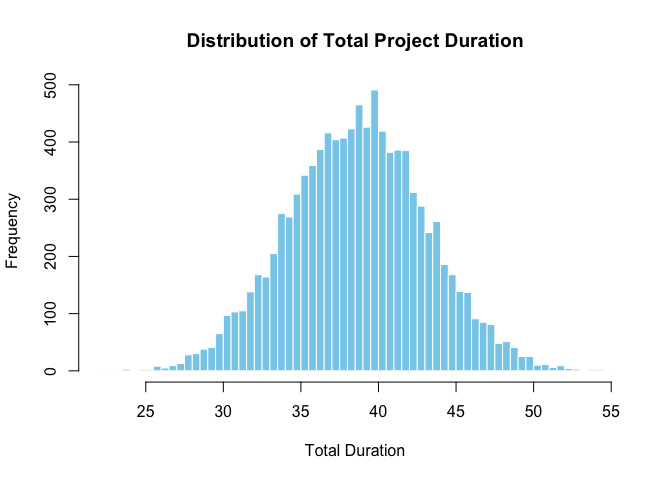
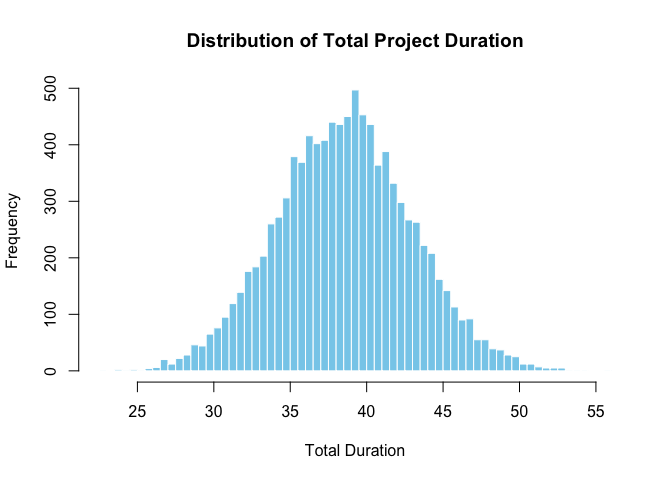
Update network vignettes

diff --git a/README.md b/README.md
@@ -1,7 +1,7 @@
 
 <!-- README.md is generated from README.Rmd. Please edit that file -->
 
-## PRA: Project Risk Analysis
+## PRA
 
 <img
 src="https://github.com/paulgovan/PRA/blob/main/inst/logo.png?raw=true"
@@ -89,7 +89,7 @@ To calculate the mean of the total duration:
 cat("Mean Total Duration is ", round(results$total_mean, 2))
 ```
 
-Mean Total Duration is 38.65
+Mean Total Duration is 38.56
 
 To calculate the variance of the total duration:
 
@@ -97,7 +97,7 @@ To calculate the variance of the total duration:
 cat("Variance around the Total Duration is ", round(results$total_variance, 2))
 ```
 
-Variance around the Total Duration is 19.79
+Variance around the Total Duration is 19.42
 
 To build a histogram of the total duration:
 
